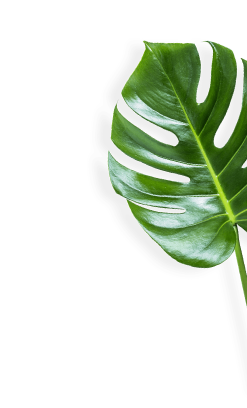
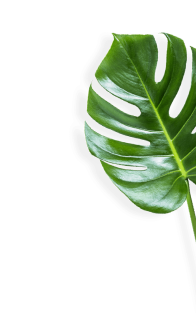
feat: finish testimonials section

diff --git a/pages/main/index.html b/pages/main/index.html
@@ -131,9 +131,9 @@ The site was founded on the basis of a volunteer movement to protect and care fo
         <p class="testip">The best online zoo I've met. My<br> son delighted very much ljves to <br>watch gouillas. Online zoo is one jf<br> the ways to instill a love for<br> animals.The best online zoo I've <br>met. My son delighted very much <br>ljves to watch gouillas. Online zoo is<br> one jf the ways to instill a love for<br> animals.
             The best online zoo I've met. My<br> son delighted very much ljves to <br>watch gouillas. Online zoo is one jf<br> the ways to instill a love for<br> animals.The best online zoo I've<br> met.<br>
             The best online zoo I've met. My<br> son delighted very much ljves to
-            </p></div></div><div class="test-border4"><div class="grey4"><div class="avatar"><img src="../../assets/icons/user4.png"></div><p id="user4">Mila Riksha</p>
+            </p></div></div><div class="test-border4"><div class="grey4"id="testiplast"><div class="avatar"><img src="../../assets/icons/user4.png"></div><p id="user4">Mila Riksha</p>
             <p class="location">Local Austria • Yesterday</p>
-            <p class="testip">My son delighted very much ljves to <br>watch gouillas. Online zoo is one jf<br> the ways to instill a love for <br>animals.The best online zoo I've <br>met. My son delighted very much<br> ljves to watch gouillas. Online zoo is<br> one jf the ways to instill a love for <br>animals.The best online zoo I've<br> met. My son delighted very much<br> ljves to watch gouillas. Online zoo is<br> one jf the ways to instill a love for <br>animals.The best online zoo I've <br>met. My son delighted very much<br> ljves to watch gouillas.
+            <p class="testip" >My son delighted very much ljves to <br>watch gouillas. Online zoo is one jf<br> the ways to instill a love for <br>animals.The best online zoo I've <br>met. My son delighted very much<br> ljves to watch gouillas. Online zoo is<br> one jf the ways to instill a love for <br>animals.The best online zoo I've<br> met. My son delighted very much<br> ljves to watch gouillas. Online zoo is<br> one jf the ways to instill a love for <br>animals.The best online zoo I've <br>met. My son delighted very much<br> ljves to watch gouillas.
                 The best online zoo I;ve met. My <br>son delighted very much ljves to <br>watch gouillas. Online zoo is one jf
                 </p></div></div></div></div>
                     </div></div>

diff --git a/pages/main/first.css b/pages/main/first.css
@@ -369,4 +369,60 @@ h3{
     font-weight: 400;
 
 }
+.Testimonials{
+    position: relative;
+    left: 30px;
+    top:-85px;
+    grid-template-columns: repeat(4, 293px);
+}
+#testiplast{
+    display: none;
+}
+.test-border4{
+    display: none;
+}
+.location1{
+    margin-left: -27px;
+}
+.location{
+    margin-left: -27px;
+}
+#user3{
+    margin-left: -29px;
+}
+
+#line_scroll{
+    position: relative;
+    top: -405px;
+    left: 299px;
+    width: 398px;
+}
+input {
+    width: 398px;
+}
+input::-webkit-slider-thumb{
+    -webkit-appearance: none;
+    height: 6px;
+    width: 75px;}
+.center h3{
+position: absolute;
+top: -115px;
+left: 400px;
+}
+.my_buttonrec{
+    position: relative;
+    top: -350px;
+    left: 30px;
+}
+.flower-leaf{
+    position: relative;
+    top: -449px;
+    left: 788px;
+    margin-left: 0;
+  width: 292px;
+  height: 460px;
+    background: url(../../assets/images/leav_foto.png);
+    background-repeat: no-repeat;
+}
+
 }

diff --git a/pages/main/style.css b/pages/main/style.css
@@ -764,6 +764,7 @@ input {
     background: #f5f7f6;
     border-color: transparent;
     border-radius: 5px;}
+
     input::-webkit-slider-thumb{
         -webkit-appearance: none;
         height: 6px;
@@ -771,6 +772,7 @@ input {
         border-radius: 5px;
         background: #fe9013;
         cursor: pointer;}
+
         .my_buttonrec{
             position: absolute;
         width: 298px;
@@ -800,7 +802,6 @@ line-height: 140%;
             position: absolute;
             top: 103rem;
             margin-left: 101rem;
-            position: absolute;
           width: 292px;
           height: 460px;
             background: url(../../assets/images/leav_foto.png);
